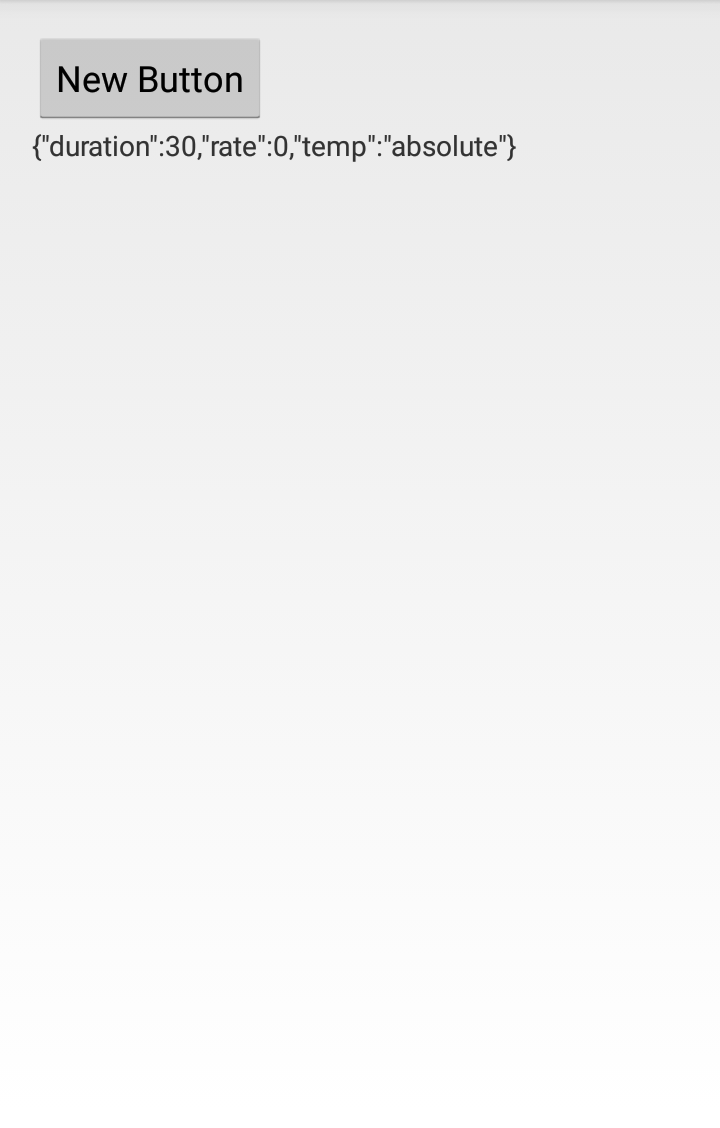
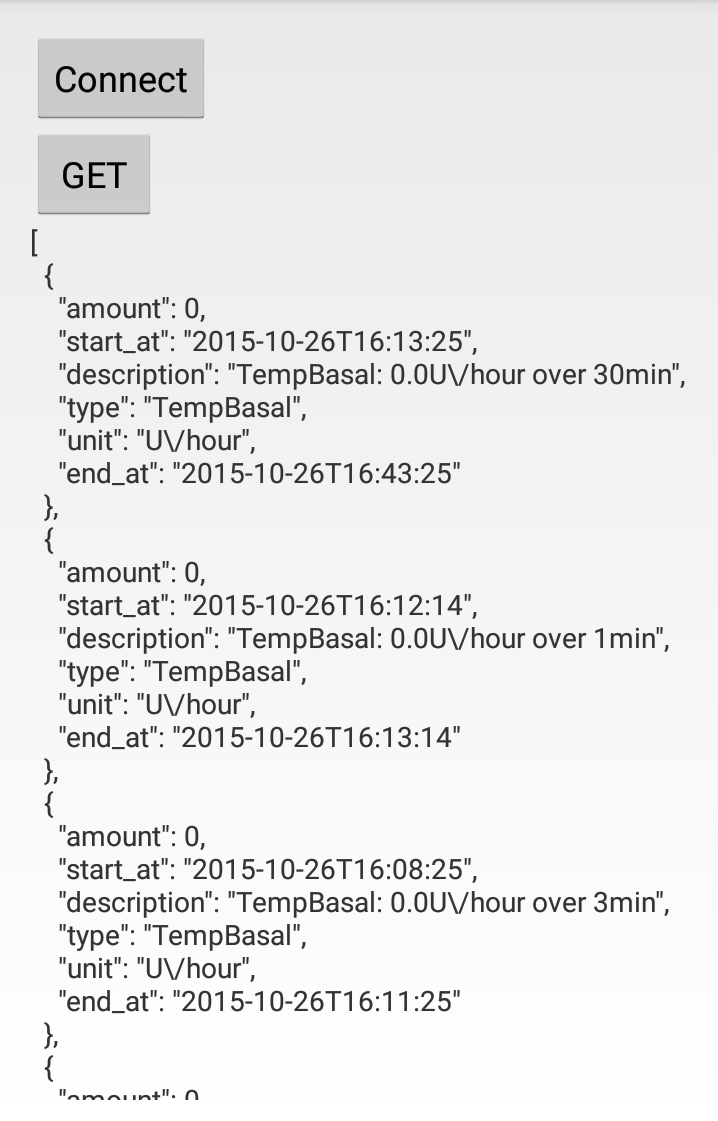
big file transfer

diff --git a/nodejs/characteristic.js b/nodejs/characteristic.js
@@ -13,13 +13,57 @@ var EchoCharacteristic = function() {
 
   this._value = new Buffer(0);
   this._updateValueCallback = null;
+  this._pos = 0;
+  this._doc = null;
+};
+
+var Transfer = {
+    _doc : null,
+    _pos : 0,
+    _updateValueCallback : null,
+    _start : true,
+    
+    transfer : function() {
+        if((Transfer._pos<Transfer._doc.length && Transfer._pos!=0) || Transfer._start === true) {
+            var locBuff = new Buffer(2);locBuff.writeUIntLE(Transfer._pos/10,0,2);
+            var sp = Buffer.concat([ locBuff  , Transfer._doc.slice(Transfer._pos,10+Transfer._pos)]);
+            console.log('pos: ',Transfer._pos, ' ', sp);
+            Transfer._pos += 10;
+            Transfer._start = false;
+            Transfer._updateValueCallback(sp);
+        } else if(Transfer._pos!=0){
+            Transfer._pos = 0;
+            console.log('pos: ',Transfer._pos);
+            Transfer._updateValueCallback(new Buffer(0));
+
+        }
+  
+
+        
+    }
 };
 
 util.inherits(EchoCharacteristic, BlenoCharacteristic);
 
 EchoCharacteristic.prototype.onReadRequest = function(offset, callback) {
-  console.log('EchoCharacteristic - onReadRequest: value = ' + this._value.toString('hex'));
+  console.log('EchoCharacteristic - onReadRequest');
 
+        if((Transfer._pos<Transfer._doc.length && Transfer._pos!=0) || Transfer._start === true) {
+            var locBuff = new Buffer(2);locBuff.writeUIntLE(Transfer._pos/10,0,2);
+            var sp = Buffer.concat([ locBuff  , Transfer._doc.slice(Transfer._pos,10+Transfer._pos)]);
+            console.log('pos: ',Transfer._pos, ' ', sp);
+            Transfer._pos += 10;
+            Transfer._start = false;
+            this._value = sp;
+            //Transfer._updateValueCallback(sp);
+        } else if(Transfer._pos!=0){
+            Transfer._pos = 0;
+            console.log('pos: ',Transfer._pos);
+            //Transfer._updateValueCallback(new Buffer(0));
+            this._value = new Buffer(0);
+        }
+  
+  
   callback(this.RESULT_SUCCESS, this._value);
 };
 
@@ -33,22 +77,11 @@ EchoCharacteristic.prototype.onWriteRequest = function(data, offset, withoutResp
 
     //this._updateValueCallback(this._value);
 	{
-		var doc = {
-		  "duration": 30, 
-		  "rate": 0.0, 
-		  "temp": "absolute"
-		};
-
-		// Serialize a document
-		var data = new Buffer(JSON.stringify(doc),"ascii");
-		console.log("data:", data, " len",data.length);
-
-		for(i=0;i<data.length;i+=18) {
-			var locBuff = new Buffer(2);locBuff.writeUIntLE(i/18,0,2);
-			var sp = Buffer.concat([ locBuff  , data.slice(i,18+i)]);
-			this._updateValueCallback(sp);
-		}
-		this._updateValueCallback(new Buffer(0));
+		Transfer._doc = new Buffer(JSON.stringify(require("../mm-resolved.json")),"ascii");
+		Transfer._pos = 0;
+		Transfer._updateValueCallback = this._updateValueCallback;
+		Transfer._start = true;
+        //Transfer.transfer();
 	}
 	
   }
@@ -56,8 +89,27 @@ EchoCharacteristic.prototype.onWriteRequest = function(data, offset, withoutResp
   callback(this.RESULT_SUCCESS);
 };
 
+EchoCharacteristic.prototype.onNotify = function() {
+    console.log('EchoCharacteristic - onNotify');
+    console.log('pos: ',Transfer._pos, 'len ', Transfer._doc.length);
+    //setTimeout(Transfer.transfer,50);
+    /*
+	if(this._pos<this._doc.length && this._pos!=0) {
+		var locBuff = new Buffer(2);locBuff.writeUIntLE(this._pos/10,0,2);
+		var sp = Buffer.concat([ locBuff  , this._doc.slice(this._pos,10+this._pos)]);
+		console.log('pos: ',this._pos, ' ', sp);
+		this._pos += 10;
+		this._updateValueCallback(sp);
+	} else if(this._pos!=0){
+		this._pos = 0;
+		console.log('pos: ',this._pos);
+		this._updateValueCallback(new Buffer(0));
+
+	} */
+}
+
 EchoCharacteristic.prototype.onSubscribe = function(maxValueSize, updateValueCallback) {
-  console.log('EchoCharacteristic - onSubscribe');
+  console.log('EchoCharacteristic - onSubscribe ', maxValueSize, ' ',updateValueCallback);
 
   this._updateValueCallback = updateValueCallback;
 };

diff --git a/app/src/main/java/org/blenoAndroid/BleConnection.java b/app/src/main/java/org/blenoAndroid/BleConnection.java
@@ -1,7 +1,12 @@
 package org.blenoAndroid;
 
+import android.annotation.TargetApi;
 import android.bluetooth.*;
 import android.content.Context;
+import android.os.Build;
+import org.json.JSONArray;
+import org.json.JSONException;
+import org.json.JSONObject;
 import org.slf4j.Logger;
 import org.slf4j.LoggerFactory;
 
@@ -40,7 +45,7 @@ public class BleConnection extends BluetoothGattCallback {
     }
 
     @Override
-    public void onCharacteristicChanged(BluetoothGatt gatt, BluetoothGattCharacteristic characteristic) {
+    public void onCharacteristicRead (BluetoothGatt gatt, BluetoothGattCharacteristic characteristic, int status) {
         byte[] val = characteristic.getValue();
         int valLength = val.length;
 
@@ -61,15 +66,27 @@ public class BleConnection extends BluetoothGattCallback {
             } else {
                 log.debug("onCharacteristicChanged duplicate " + posShort);
 
-           }
-
+            }
+            mBluetoothGatt.readCharacteristic(mCharData);
         } else {
             log.debug("onCharacteristicChanged message "+mMessage.toString());
-            mOnMessage.onMessage(mMessage.toString());
+            //mOnMessage.onMessage(mMessage.toString());
+            try {
+                JSONArray jsonObj = new JSONArray(mMessage.toString());
+                mOnMessage.onMessage(jsonObj.toString(2));
+            } catch (JSONException e) {
+                e.printStackTrace();
+            }
             mMessagePos=0;
             mMessage = new StringBuffer();
         }
 
+    }
+
+    @Override
+    public void onCharacteristicWrite(BluetoothGatt gatt, BluetoothGattCharacteristic characteristic, int status) {
+        super.onCharacteristicWrite(gatt, characteristic, status);
+        mBluetoothGatt.readCharacteristic(mCharData);
     }
 
     public void request () {
@@ -78,6 +95,7 @@ public class BleConnection extends BluetoothGattCallback {
 
         mCharData.setValue(new byte[1]);
         mBluetoothGatt.writeCharacteristic(mCharData);
+
     }
 
     @Override
@@ -95,15 +113,26 @@ public class BleConnection extends BluetoothGattCallback {
         mCharData = gattCharacteristicList.get(0);
 
 
+        enableNotify();
+    }
+
+    public void connect() {
+        mBluetoothGatt.connect();
+    }
+
+    @TargetApi(Build.VERSION_CODES.LOLLIPOP)
+    private void enableNotify() {
         List<BluetoothGattDescriptor> charDataDescriptors = mCharData.getDescriptors();
         BluetoothGattDescriptor config = charDataDescriptors.get(0);
         config.setValue(BluetoothGattDescriptor.ENABLE_NOTIFICATION_VALUE);
+        mBluetoothGatt.requestConnectionPriority(BluetoothGatt.CONNECTION_PRIORITY_HIGH);
+
         mBluetoothGatt.writeDescriptor(config);
 
         mBluetoothGatt.setCharacteristicNotification(mCharData, true);
     }
 
-        @Override
+    @Override
     public void onConnectionStateChange(BluetoothGatt gatt, int status, int newState) {
 
         log.info("onConnectionStateChange status: " + status + " new state: " + newState);

diff --git a/app/src/main/java/org/blenoAndroid/MainActivity.java b/app/src/main/java/org/blenoAndroid/MainActivity.java
@@ -31,6 +31,11 @@ public class MainActivity extends Activity implements  BleConnection.OnMessage{
         bleConnection.request();
     }
 
+    @OnClick(R.id.buttonConnect)
+    public void connect(View view) {
+        bleConnection.connect();
+    }
+
     @Override
     public void onMessage(final String message) {
         runOnUiThread(new Runnable() {
